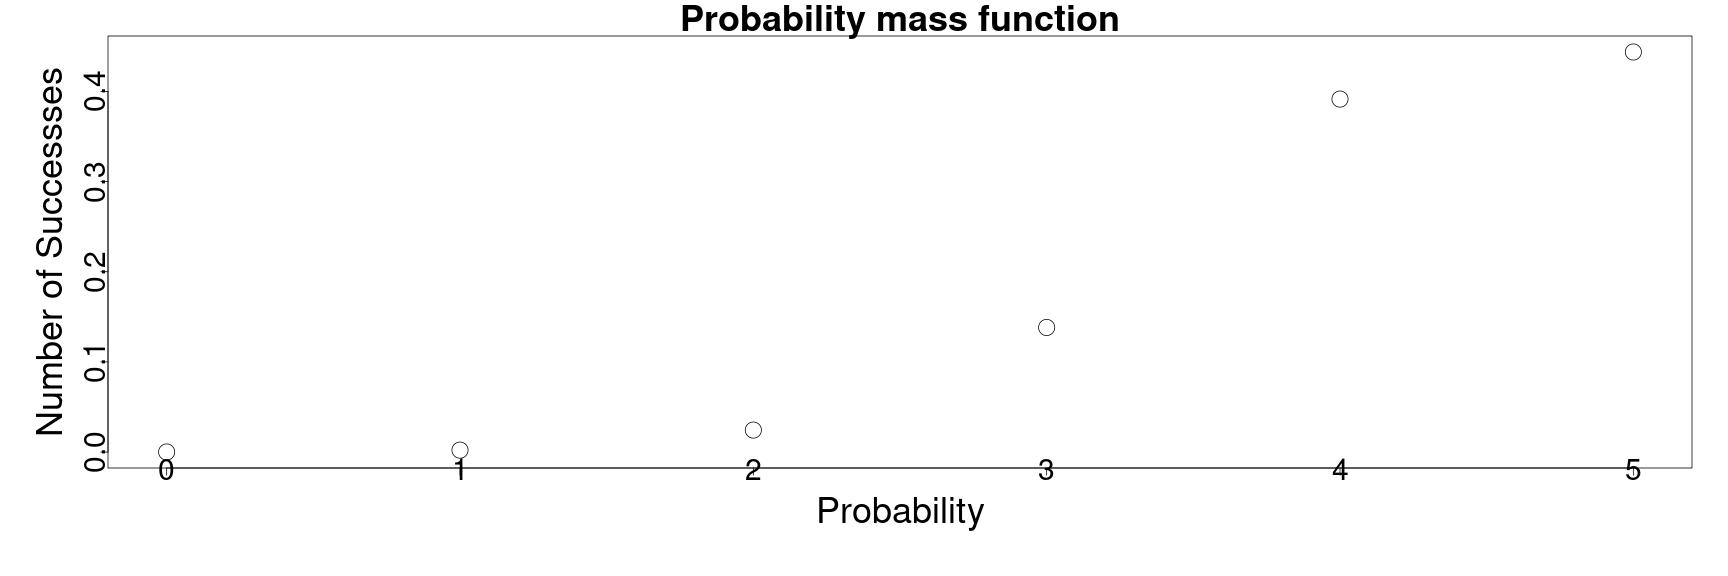
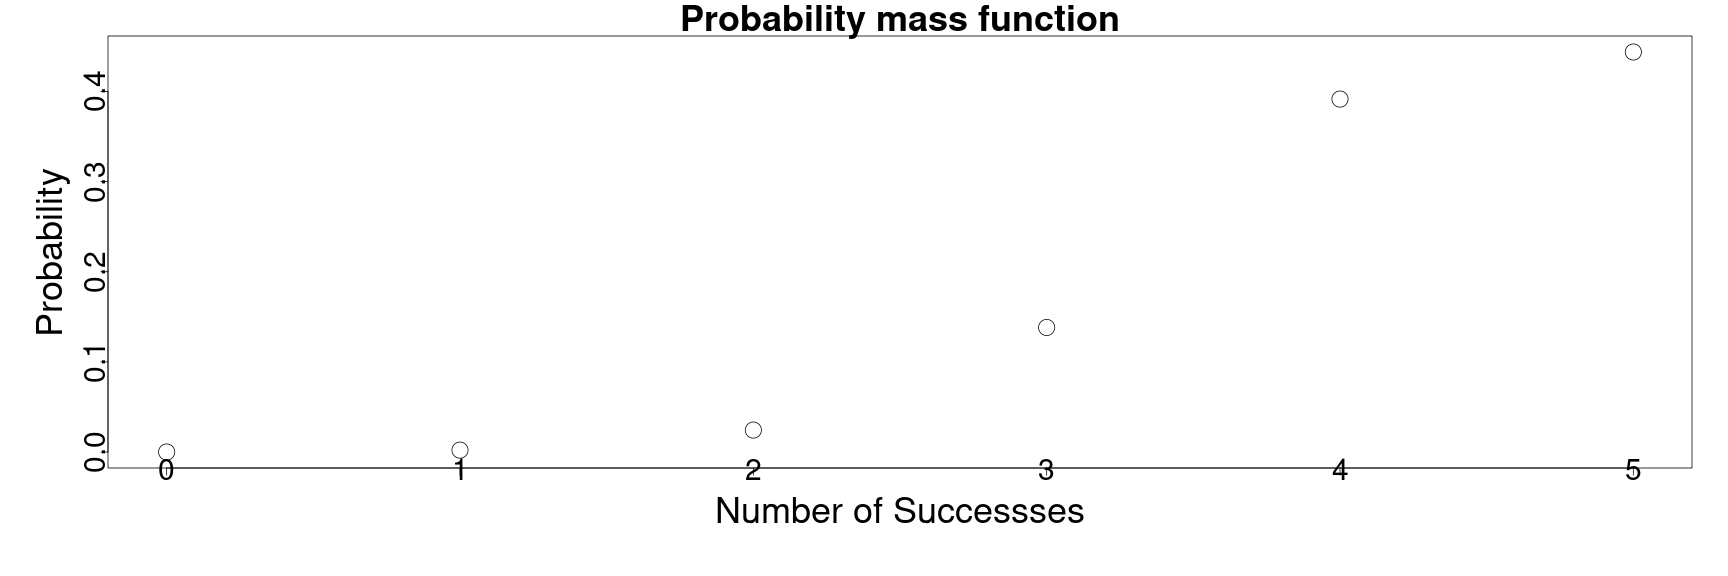
fixing typos

diff --git a/teaching/stat_352_2021_spring/lesson_notes/2021_03_03/lesson_21_03_03.html b/teaching/stat_352_2021_spring/lesson_notes/2021_03_03/lesson_21_03_03.html
@@ -931,58 +931,6 @@ is located.</li>
 <div class="slideContent noTitle" >
 <h2 class="fragment">The mean of probability distributions</h2>
 
-<div style="float:left; width:65%">
-<ul>
-  <li class="fragment"><b style="color:#d95f02">Frequency distributions are derived from samples</b>, and therefore the measures of frequency distributions are <b style="color:#d95f02">statistics</b>.</li>
-  <ul>
-    <li class="fragment">In the last example, this was equivalent to computing the <b style="color:#d95f02">sample mean \( \overline{x} \)</b> of the random variable \( X \).</li>
-  </ul>
-  <li class="fragment">On the other hand, a <b style="color:#1b9e77">probability distribution represents the entire population</b>, where the population may be abstract.</li>
-  </ul>
-</div>
-
-<div style="float:right; width:35%;text-align:center;">
-<table class="fragment">
-<tr>
-  <th> <strong>Outcome </strong></th> <th> <strong>Observed value for \( X=x \)</strong> </th> <th><strong>Probability</strong></th></th>
-</tr>
-<tr>
-<td> \( \{H,H\} \) </td> <td>\( x=2 \)</td> <td> \( f(x)=\frac{1}{4} \)</td></tr>
-<tr><td>\( \{H,T\}, \{T,H\} \)</td> <td>\( x=1 \)</td> <td>\( f(x)=\frac{2}{4} \)</td></tr>
-<tr><td>\( \{T,T\} \)</td> <td>\( x=0 \)</td> <td>\( f(x)=\frac{1}{4} \)</td></tr>
-</table>
-</div>
-
-<div style="float:left; width:100%">
-<ul>
-  <ul>
-    <li class="fragment">E.g., for the two coin flips, the probability distribution for \( x \) represents the relative frequency of outcomes over the <b style="color:#1b9e77">population of all possible experiments or infinite replications</b>.</li> 
-  <li class="fragment">Therefore, if we compute the mean of \( x \) for the probability distribution, we have the <b style="color:#1b9e77">population parameter \( \mu \)</b>.</li>
-  </ul>
-  <li class="fragment">To compute the mean of the <b style="color:#1b9e77">probability distribution</b>, we follow a formula like the mean of a <b style="color:#d95f02">frequency disribution</b>.</li> 
-  <ul>
-    <li class="fragment">Let \( \{x_\alpha\} \) be the collection of all possible values for \( x \) in its range \( \mathbf{R} \).</li>
-    <ul>
-      <li class="fragment">For a table as above, this corresponds to all row values in the middle.</li>
-    </ul>
-    <li class="fragment">Let \( \{P(X=x_\alpha)\} \) be all the associated probabilities for \( x \) over its range of values \( \mathbf{R} \).</li>
-    <ul>
-      <li class="fragment">For a table as above, this corresponds to all row values in the right-hand-side.</li>
-    </ul>
-    <li class="fragment">Then the <b style="color:#1b9e77">mean of the probability distribution</b> is given,
-    \[ \mu = \sum_{x_\alpha \in \mathbf{R}} x_\alpha P(X=x_\alpha) = \sum_{x_\alpha \in \mathbf{R}} x_\alpha f(x_\alpha) \] </li>
-  </ul>
-</ul>
-</div>
-
-</div>
-
-</section>
-<section data-transition="linear" data-transition-speed="default">
-
-<div class="slideContent noTitle" >
-<h3 class="fragment">The mean of probability distributions continued</h3>
-
 <ul>
   <li class="fragment">Let \( X \) be a random variable that can attain the possible-to-observe values \( \{x_\alpha \in\mathbf{R}\} \).</li>
   <li class="fragment">We say the the probability density function \( f(x_\alpha) = P(X=x_\alpha) \).</li>
@@ -1086,7 +1034,7 @@ is located.</li>
   \[ \sigma^2 = \sum_{x_\alpha \in \mathbf{R}} P(X=x_\alpha) \left(x_\alpha - \mu\right)^2 . \]</li>
   <li class="fragment">We can also derive the alternative forms for the <b style="color:#1b9e77">population standard deviation and variance</b> in terms of the <b style="color:#1b9e77">probability distribution</b> as
   \[ \begin{align}
-  \sigma &= \sqrt{\sum_{x_\alpha \in \mathbf{R}} \big( x_\alpha P(X=x_\alpha) \big)^2  -  \mu^2 }, \\ \\
+  \sigma &= \sqrt{\sum_{x_\alpha \in \mathbf{R}}  x_\alpha^2 P(X=x_\alpha)   -  \mu^2 }, \\ \\
   \sigma^2 &= \sum_{x_\alpha\in\mathbf{R}}  x_\alpha^2 P(X=x_\alpha) -  \mu^2  . 
   \end{align} \]</li>
   <li class="fragment">This again just amounts to some algebraic manipulation and these forms are <strong>totally equivalent to the other forms</strong>.</li>
@@ -1238,7 +1186,7 @@ is located.</li>
       <li class="fragment"><strong>each trial is independent</strong>; and
       <li class="fragment"><strong>\( P(S)=p \) for every trial</strong>.</li>
     </ol>
-    <li class="fragment">Let <b>\( x \) be the random variable</b> equal to the <strong>total number of successful trials</strong>.</li>  
+    <li class="fragment">Let <b>\( X \) be the random variable</b> equal to the <strong>total number of successful trials</strong>.</li>  
     <li class="fragment">Let <b>\( x_\alpha \)</b> be one of the <strong>possible number of successful trials</strong> in the range \( 0, 1 ,\cdots , n \).</li>
     <ul>
       <li class="fragment">Then the probability of <strong>exactly \( x_\alpha \) successful trials (the event \( X= x_\alpha \))</strong> is given by
@@ -1340,7 +1288,7 @@ five random adults know what Twitter is.</li>
     <li class="fragment"><b>\( x_\alpha \)</b> is the <strong>specific number of successful trials</strong> we are interested in, i.e., <b>\( x_\alpha = 3 \)</b>.</li>
     <li class="fragment"><b>\( p \) is the probability of an independent trial&rsquo;s successs</b>, i.e, \( p=0.85 \)</li>
     <li class="fragment"><b>\( q \) is the probability of an independent trial&rsquo;s failure</b>, i.e., \( q=1-p = 0.15 \).</li>
-    <li class="fragment">The <b>total number of ways \( x=3 \)</b> is
+    <li class="fragment">The <b>total number of ways \( X=3 \)</b> is
   \[ \begin{align}
   \frac{n!}{(n- x_\alpha)! x_\alpha!} = \frac{5!}{(5 - 3)! 3!} = \frac{5!}{(2)!3!} = 10
   \end{align} \]</li>
@@ -1353,7 +1301,7 @@ five random adults know what Twitter is.</li>
     \end{align} \]</li>
   <li class="fragment">or in plain English,
   <blockquote class="fragment">
-  the probability of three independent successful trials, times the probability of two indepdendent failure trials, times all possible ways we can have exactly \( 3 \) successful trials out of five.
+  the probability of three independent successful trials, times the probability of two independent failure trials, times all possible ways we can have exactly \( 3 \) successful trials out of five.
   </blockquote></li>
   <li class="fragment">Again, the counting argument follows directly from the material we studied before the midterm.</li>
 </ul> 
@@ -1371,10 +1319,10 @@ five random adults know what Twitter is.</li>
 </ul>
 
 <pre class="fragment"><code class="r">par(mai=c(1.5,1.5,.5,.5), mgp=c(3,0,0))
-plot(c(0:5), dbinom(c(0:5), size=5, prob=0.85),  xlab=&quot;Probability&quot;, ylab=&quot;Number of Successses&quot;, cex=3, cex.lab=3, cex.axis=2.5, main=&quot;Probability mass function&quot;, cex.main=3)
+plot(c(0:5), dbinom(c(0:5), size=5, prob=0.85),  ylab=&quot;Probability&quot;, xlab=&quot;Number of Successses&quot;, cex=3, cex.lab=3, cex.axis=2.5, main=&quot;Probability mass function&quot;, cex.main=3)
 </code></pre>
 
[2 lines of base64/hex data omitted]
 
 <ul>
 <li class="fragment"><p class="fragment">In the above, the <code>dbinom</code> is the function for the probability mass function for the binomial distribution.</p></li>
@@ -1422,8 +1370,8 @@ Courtesy of Ania Panorska  <a href="https://creativecommons.org/licenses/by-sa/3
 <ul>
   <li class="fragment">We saw earlier the following definitions for the mean and the standard deviation of a probability distribution:
   <ul>
-  <li class="fragment">Suppose we have a random variable \( x \) which assigns a numerical value to each outcome in the sample space \( \mathbf{S} \).</li>
-  <li class="fragment">Suppose all values that \( x \) can attain are given by a collection \( \{x_\alpha\} \) in the range \( \mathbf{R} \) of \( x \).</li>
+  <li class="fragment">Suppose we have a random variable \( X \) which assigns a numerical value to each outcome in the sample space \( \mathbf{S} \).</li>
+  <li class="fragment">Suppose all values that \( X \) can attain are given by a collection \( \{x_\alpha\} \) in the range \( \mathbf{R} \) of \( X \).</li>
 </ul>
 </div>
 
@@ -1431,9 +1379,9 @@ Courtesy of Ania Panorska  <a href="https://creativecommons.org/licenses/by-sa/3
 
 <ul>
   <li class="fragment">Then the <b style="color:#1b9e77">mean (or expected value) of the probability distribution</b> is given,
-    \[ \mu = \sum_{x_\alpha \in \mathbf{R}} x_\alpha P(x=x_\alpha) \] </li>
+    \[ \mu = \sum_{x_\alpha \in \mathbf{R}} x_\alpha P(X=x_\alpha) \] </li>
   <li class="fragment">The <b style="color:#1b9e77">standard deviation of the probability distribution</b> is given
-    \[ \sigma = \sqrt{\sum_{x_\alpha\in \mathbf{R}} P(x=x_\alpha) \left(x_\alpha - \mu\right)^2 } \]</li>
+    \[ \sigma = \sqrt{\sum_{x_\alpha\in \mathbf{R}} P(X=x_\alpha) \left(x_\alpha - \mu\right)^2 } \]</li>
     <li class="fragment">These formulas hold for all probability distributions (with a slight modification when the variable is continuous by using calculus).</li>
   </ul>
 </ul>
@@ -1508,7 +1456,7 @@ Public domain via
   <li class="fragment">We can model the probability of a particular number of successes \( x_\alpha \) like a (possibly) non-fair coin flipping experiment.</li>
   <li class="fragment">We model the probability of exactly \( x_\alpha \) successful trials as 
   \[ \begin{align}
-  P(x=x_\alpha) =  \underbrace{\frac{n!}{\left( n  - x_\alpha\right)! x_\alpha !}}_{(1) } \times \underbrace{ p^{x_\alpha}}_{(2)} \times  \underbrace{q^{(n - x_\alpha)}}_{(3)}
+  P(X=x_\alpha) =  \underbrace{\frac{n!}{\left( n  - x_\alpha\right)! x_\alpha !}}_{(1) } \times \underbrace{ p^{x_\alpha}}_{(2)} \times  \underbrace{q^{(n - x_\alpha)}}_{(3)}
   \end{align} \]  
   where:
   </li> 

diff --git a/teaching/stat_352_2021_spring/lesson_notes/2021_03_03/lesson_21_03_03.md b/teaching/stat_352_2021_spring/lesson_notes/2021_03_03/lesson_21_03_03.md
@@ -21,7 +21,7 @@ red    <b style="color:#FF0000"> text </b>
 blue   <b style="color:#0000FF"> text </b>
 -->
 
-Parameters of probability distributions and the binomial and Poisson distributions
+Parameters of probability distributions and the binomial distribution
 ========================================================
 date: 03/03/2021
 autosize: true
@@ -46,7 +46,7 @@ This site is for educational purposes only.  This website may contain copyrighte
 
   * Review of mean, standard deviation and variance of probability distribution
   * Binomial distribution
-  * Poisson distribution
+  * Parameters of the binomial distribution
 
 <!-- 3.2 -->
 
@@ -139,53 +139,6 @@ is located.</li>
 ## The mean of probability distributions
 
 
-<div style="float:left; width:65%">
-<ul>
-  <li><b style="color:#d95f02">Frequency distributions are derived from samples</b>, and therefore the measures of frequency distributions are <b style="color:#d95f02">statistics</b>.</li>
-  <ul>
-    <li>In the last example, this was equivalent to computing the <b style="color:#d95f02">sample mean $\overline{x}$</b> of the random variable $X$.</li>
-  </ul>
-  <li>On the other hand, a <b style="color:#1b9e77">probability distribution represents the entire population</b>, where the population may be abstract.</li>
-  </ul>
-</div>
-
-<div style="float:right; width:35%;text-align:center;">
-<table class="fragment">
-<tr>
-  <th> <strong>Outcome </strong></th> <th> <strong>Observed value for $X=x$</strong> </th> <th><strong>Probability</strong></th></th>
-</tr>
-<tr>
-<td> $\{H,H\}$ </td> <td>$x=2$</td> <td> $f(x)=\frac{1}{4}$</td></tr>
-<tr><td>$\{H,T\}, \{T,H\}$</td> <td>$x=1$</td> <td>$f(x)=\frac{2}{4}$</td></tr>
-<tr><td>$\{T,T\}$</td> <td>$x=0$</td> <td>$f(x)=\frac{1}{4}$</td></tr>
-</table>
-</div>
-<div style="float:left; width:100%">
-<ul>
-  <ul>
-    <li>E.g., for the two coin flips, the probability distribution for $x$ represents the relative frequency of outcomes over the <b style="color:#1b9e77">population of all possible experiments or infinite replications</b>.</li> 
-  <li>Therefore, if we compute the mean of $x$ for the probability distribution, we have the <b style="color:#1b9e77">population parameter $\mu$</b>.</li>
-  </ul>
-  <li>To compute the mean of the <b style="color:#1b9e77">probability distribution</b>, we follow a formula like the mean of a <b style="color:#d95f02">frequency disribution</b>.</li> 
-  <ul>
-    <li>Let $\{x_\alpha\}$ be the collection of all possible values for $x$ in its range $\mathbf{R}$.</li>
-    <ul>
-      <li>For a table as above, this corresponds to all row values in the middle.</li>
-    </ul>
-    <li>Let $\{P(X=x_\alpha)\}$ be all the associated probabilities for $x$ over its range of values $\mathbf{R}$.</li>
-    <ul>
-      <li>For a table as above, this corresponds to all row values in the right-hand-side.</li>
-    </ul>
-    <li>Then the <b style="color:#1b9e77">mean of the probability distribution</b> is given,
-    $$\mu = \sum_{x_\alpha \in \mathbf{R}} x_\alpha P(X=x_\alpha) = \sum_{x_\alpha \in \mathbf{R}} x_\alpha f(x_\alpha)$$ </li>
-  </ul>
-</ul>
-</div>
-
-========================================================
-
-### The mean of probability distributions continued
-
 <ul>
   <li>Let $X$ be a random variable that can attain the possible-to-observe values $\{x_\alpha \in\mathbf{R}\}$.</li>
   <li>We say the the probability density function $f(x_\alpha) = P(X=x_\alpha)$.</li>
@@ -277,7 +230,7 @@ is located.</li>
   $$\sigma^2 = \sum_{x_\alpha \in \mathbf{R}} P(X=x_\alpha) \left(x_\alpha - \mu\right)^2 .$$</li>
   <li>We can also derive the alternative forms for the <b style="color:#1b9e77">population standard deviation and variance</b> in terms of the <b style="color:#1b9e77">probability distribution</b> as
   $$\begin{align}
-  \sigma &= \sqrt{\sum_{x_\alpha \in \mathbf{R}} \big( x_\alpha P(X=x_\alpha) \big)^2  -  \mu^2 }, \\ \\
+  \sigma &= \sqrt{\sum_{x_\alpha \in \mathbf{R}}  x_\alpha^2 P(X=x_\alpha)   -  \mu^2 }, \\ \\
   \sigma^2 &= \sum_{x_\alpha\in\mathbf{R}}  x_\alpha^2 P(X=x_\alpha) -  \mu^2  . 
   \end{align}$$</li>
   <li>This again just amounts to some algebraic manipulation and these forms are <strong>totally equivalent to the other forms</strong>.</li>
@@ -413,7 +366,7 @@ $$\sigma^2 = \sum_{x_\alpha \in \mathbf{R}} P(X=x_\alpha) \left(x_\alpha - \mu\r
       <li><strong>each trial is independent</strong>; and
       <li><strong>$P(S)=p$ for every trial</strong>.</li>
     </ol>
-    <li>Let <b>$x$ be the random variable</b> equal to the <strong>total number of successful trials</strong>.</li>  
+    <li>Let <b>$X$ be the random variable</b> equal to the <strong>total number of successful trials</strong>.</li>  
     <li>Let <b>$x_\alpha$</b> be one of the <strong>possible number of successful trials</strong> in the range $0, 1 ,\cdots , n$.</li>
     <ul>
       <li>Then the probability of <strong>exactly $x_\alpha$ successful trials (the event $X= x_\alpha$)</strong> is given by
@@ -504,7 +457,7 @@ five random adults know what Twitter is.</li>
     <li><b>$x_\alpha$</b> is the <strong>specific number of successful trials</strong> we are interested in, i.e., <b>$x_\alpha = 3$</b>.</li>
     <li><b>$p$ is the probability of an independent trial's successs</b>, i.e, $p=0.85$</li>
     <li><b>$q$ is the probability of an independent trial's failure</b>, i.e., $q=1-p = 0.15$.</li>
-    <li>The <b>total number of ways $x=3$</b> is
+    <li>The <b>total number of ways $X=3$</b> is
   $$\begin{align}
   \frac{n!}{(n- x_\alpha)! x_\alpha!} = \frac{5!}{(5 - 3)! 3!} = \frac{5!}{(2)!3!} = 10
   \end{align}$$</li>
@@ -517,7 +470,7 @@ five random adults know what Twitter is.</li>
     \end{align}$$</li>
   <li>or in plain English,
   <blockquote>
-  the probability of three independent successful trials, times the probability of two indepdendent failure trials, times all possible ways we can have exactly $3$ successful trials out of five.
+  the probability of three independent successful trials, times the probability of two independent failure trials, times all possible ways we can have exactly $3$ successful trials out of five.
   </blockquote></li>
   <li>Again, the counting argument follows directly from the material we studied before the midterm.</li>
 </ul> 
@@ -531,7 +484,7 @@ five random adults know what Twitter is.</li>
 
 ```r
 par(mai=c(1.5,1.5,.5,.5), mgp=c(3,0,0))
-plot(c(0:5), dbinom(c(0:5), size=5, prob=0.85),  xlab="Probability", ylab="Number of Successses", cex=3, cex.lab=3, cex.axis=2.5, main="Probability mass function", cex.main=3)
+plot(c(0:5), dbinom(c(0:5), size=5, prob=0.85),  ylab="Probability", xlab="Number of Successses", cex=3, cex.lab=3, cex.axis=2.5, main="Probability mass function", cex.main=3)
 ```
 
 ![plot of chunk unnamed-chunk-1](lesson_21_03_03-figure/unnamed-chunk-1-1.png)
@@ -572,16 +525,16 @@ Courtesy of Ania Panorska  <a href="https://creativecommons.org/licenses/by-sa/3
 <ul>
   <li>We saw earlier the following definitions for the mean and the standard deviation of a probability distribution:
   <ul>
-  <li>Suppose we have a random variable $x$ which assigns a numerical value to each outcome in the sample space $\mathbf{S}$.</li>
-  <li>Suppose all values that $x$ can attain are given by a collection $\{x_\alpha\}$ in the range $\mathbf{R}$ of $x$.</li>
+  <li>Suppose we have a random variable $X$ which assigns a numerical value to each outcome in the sample space $\mathbf{S}$.</li>
+  <li>Suppose all values that $X$ can attain are given by a collection $\{x_\alpha\}$ in the range $\mathbf{R}$ of $X$.</li>
 </ul>
 </div>
 <div style="float:left;width:100%">
 <ul>
   <li>Then the <b style="color:#1b9e77">mean (or expected value) of the probability distribution</b> is given,
-    $$\mu = \sum_{x_\alpha \in \mathbf{R}} x_\alpha P(x=x_\alpha)$$ </li>
+    $$\mu = \sum_{x_\alpha \in \mathbf{R}} x_\alpha P(X=x_\alpha)$$ </li>
   <li>The <b style="color:#1b9e77">standard deviation of the probability distribution</b> is given
-    $$\sigma = \sqrt{\sum_{x_\alpha\in \mathbf{R}} P(x=x_\alpha) \left(x_\alpha - \mu\right)^2 }$$</li>
+    $$\sigma = \sqrt{\sum_{x_\alpha\in \mathbf{R}} P(X=x_\alpha) \left(x_\alpha - \mu\right)^2 }$$</li>
     <li>These formulas hold for all probability distributions (with a slight modification when the variable is continuous by using calculus).</li>
   </ul>
 </ul>
@@ -646,7 +599,7 @@ Public domain via
   <li>We can model the probability of a particular number of successes $x_\alpha$ like a (possibly) non-fair coin flipping experiment.</li>
   <li>We model the probability of exactly $x_\alpha$ successful trials as 
   $$\begin{align}
-  P(x=x_\alpha) =  \underbrace{\frac{n!}{\left( n  - x_\alpha\right)! x_\alpha !}}_{(1) } \times \underbrace{ p^{x_\alpha}}_{(2)} \times  \underbrace{q^{(n - x_\alpha)}}_{(3)}
+  P(X=x_\alpha) =  \underbrace{\frac{n!}{\left( n  - x_\alpha\right)! x_\alpha !}}_{(1) } \times \underbrace{ p^{x_\alpha}}_{(2)} \times  \underbrace{q^{(n - x_\alpha)}}_{(3)}
   \end{align}$$  
   where:
   </li> 
